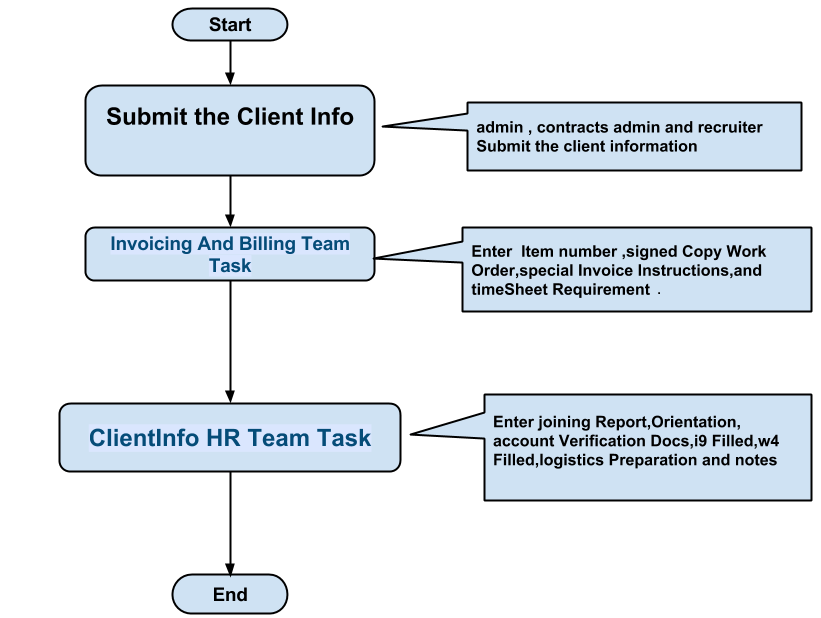
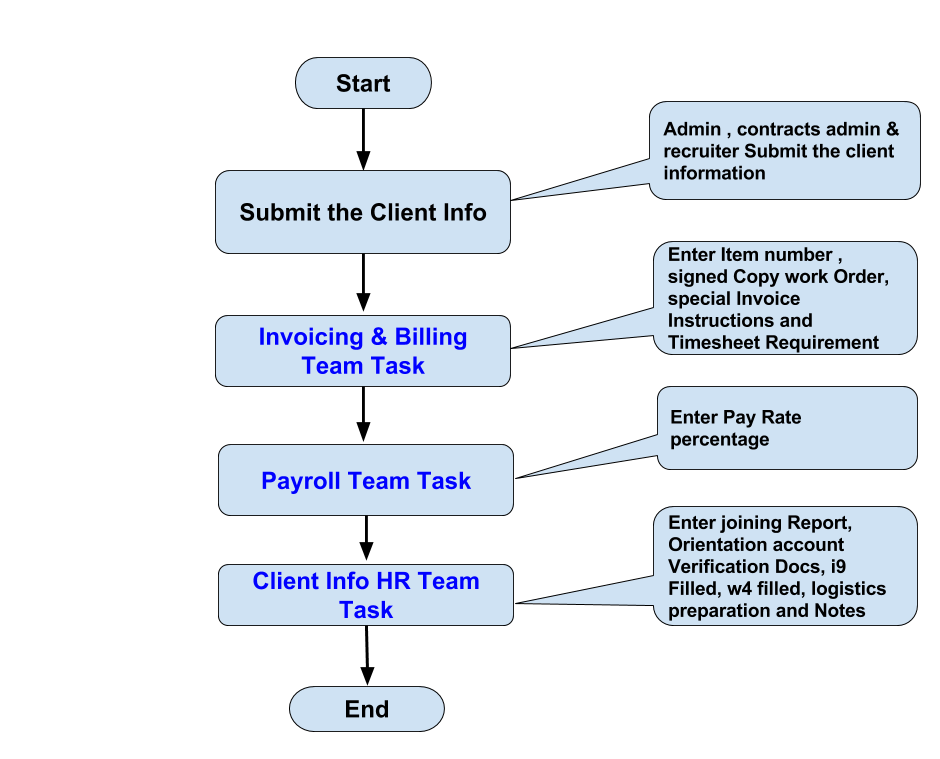
submit client info process documentation

diff --git a/office-master/office-doc/src/site/markdown/office/bpm/new-client-info-process.md b/office-master/office-doc/src/site/markdown/office/bpm/new-client-info-process.md
@@ -3,7 +3,7 @@ How To Add Client Information
 - [Login to Portal](../../office/forgot-password.html "Login")
 - Navigate to **MyOffice** -> **Employees** -> **Employee Tree Panel** -> **Client Information**
 - After the Client information is created, a task is created and assigned to **billing and invoice team**
-- After the **billing and invoice team**  completes the assigned task, the  task is created and assigned to the **HR department** to populate all remaining details,verify, and complete the process.
+- After the **billing and invoice team**  completes the assigned task, the  task is created and assigned to the **Payroll department** to enter pay rate percentage and special notes & then assigned to the **HR department** to populate all remaining details,verify, and complete the process.
 - There is a option to create and update the previous project End Date.
 - Role_Contracts_Admin submit the new vendor and  new client request 
 - The Task and email sent to Role_Admin
